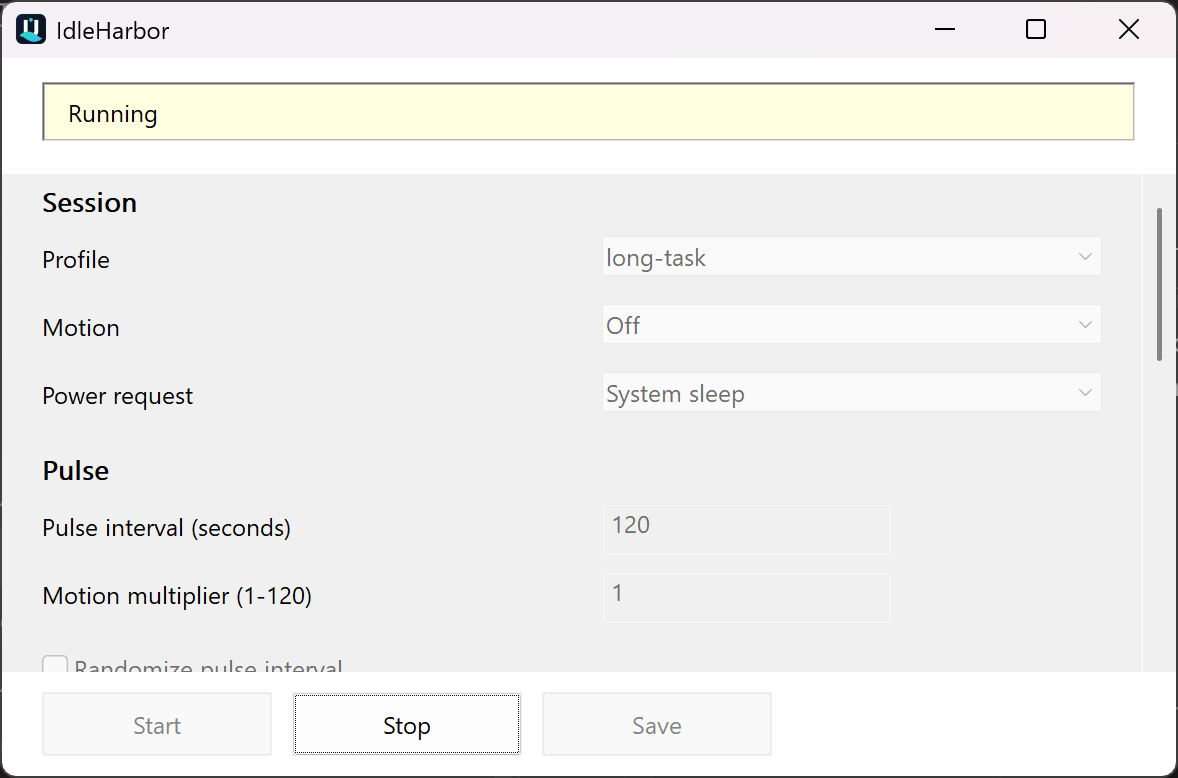
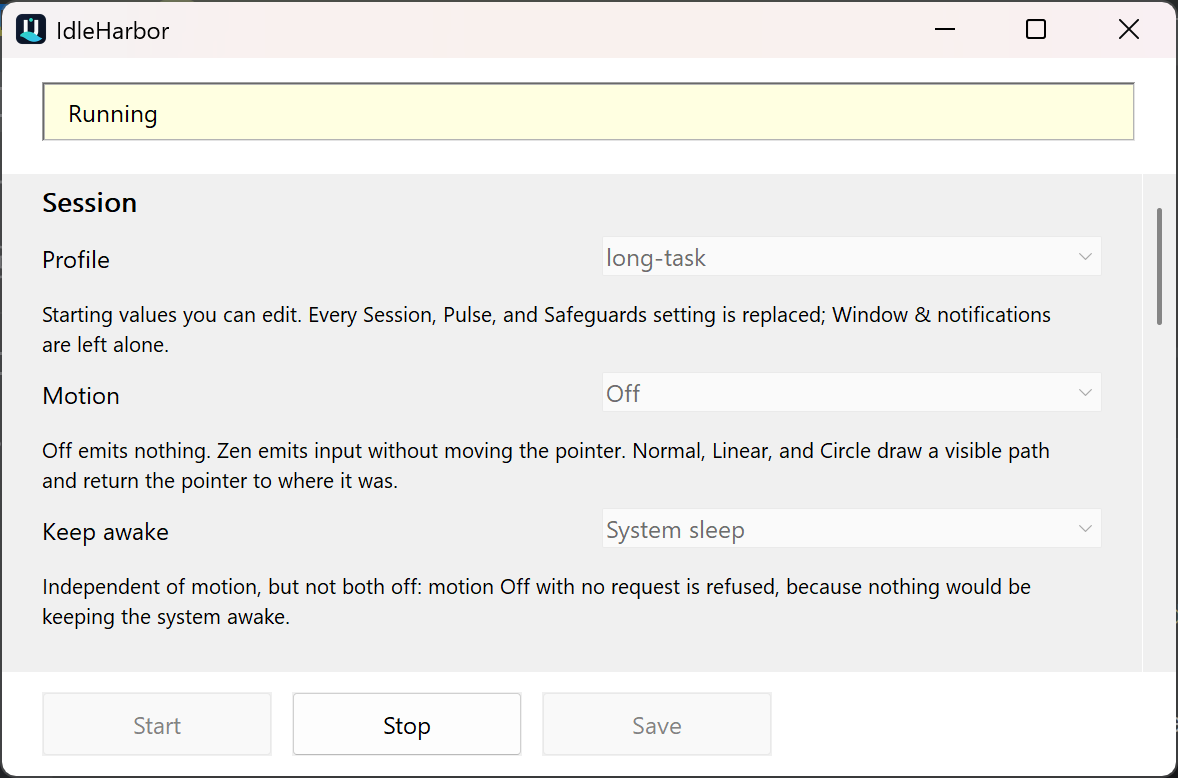
Recapture the documentation screenshots from the v0.2.0 release

diff --git a/PROJECT_STATE.md b/PROJECT_STATE.md
@@ -43,11 +43,13 @@ PR [#31](https://github.com/Chris0Jeky/IdleHarbor/pull/31) was closed as superse
 ## Installed release on the development PC
 
 The verified public x64 build is installed per-user at
-`%LOCALAPPDATA%\Programs\IdleHarbor\IdleHarbor.exe`. Its SHA-256 is
[1 lines of base64/hex data omitted]
-SBOM. Existing settings were preserved byte-for-byte. The explicit Task Scheduler action remains
-`--start --minimized`, the Start Menu launcher remains visible, and exactly one released process
-was restored after final screenshot QA. The executable is intentionally `NotSigned`.
+`%LOCALAPPDATA%\Programs\IdleHarbor\IdleHarbor.exe`. It was upgraded from `0.1.0` to `0.2.0` on
+2026-08-24 with the released `install.ps1` run as `-Startup TaskScheduler -StartMenu Create
+-NoLaunch`. Its SHA-256 is
[1 lines of base64/hex data omitted]
+and the x64 SPDX SBOM. `%LOCALAPPDATA%\IdleHarbor\settings.ini` is byte-for-byte unchanged across
+the upgrade, the explicit Task Scheduler action remains `--start --minimized`, and the Start Menu
+launcher remains visible. The executable is intentionally `NotSigned`.
 
 ## Repaint fix and final visual evidence
 
@@ -58,9 +60,10 @@ repaints the parent after layout convergence. The native smoke drives real wheel
 natural and explicit-reference repaint captures are pixel-identical.
 
 The stopped, running, safety-paused, scrolled, and tray-menu screenshots were recaptured from the
-installed public release at 192 DPI and visually inspected. `docs/assets/capture-manifest.json`
-records release source `d936f1e3d147b98403272e27ce1b3ec8f1cee3eb`, the released executable
-hash, exact PNG dimensions, and hashes. The original reported corruption is absent in every state.
+installed public `0.2.0` release at 192 DPI and visually inspected. `docs/assets/capture-manifest.json`
+records source revision `b69c7b56ba5cd89419f849b25312b0b4cb92a5d4`, the released executable's
+identity and `NotSigned` state, exact PNG dimensions, and per-image hashes. The original reported
+corruption is absent in every state.
 
 ## Settings-window work after `v0.1.0`
 
@@ -82,10 +85,10 @@ Two pre-existing intermittent failures in `tests\Test-NativeViewportRepaint.ps1`
 window that was findable from `WM_CREATE` but not yet initialized. The script now passed five
 consecutive runs at 192 DPI with an identical capture hash.
 
-`docs/assets` still records the `v0.1.0` release captures. Any settings-window change made after this
-point -- a layout change or a renamed label alike -- leaves those screenshots stale until the next
-release capture, which must be taken from a released executable. The captures currently show the
-former "Power request" and "Motion multiplier (1-120)" labels.
+`docs/assets` records the `v0.2.0` release captures, taken on 2026-08-24 from the installed public
+release at 192 DPI and visually inspected. Any settings-window change made after this point -- a
+layout change or a renamed label alike -- leaves those screenshots stale until the next release
+capture, which must be taken from a released executable.
 
 Follow-ups [#55](https://github.com/Chris0Jeky/IdleHarbor/issues/55) and
 [#56](https://github.com/Chris0Jeky/IdleHarbor/issues/56) were opened from PR #54's review and remain

diff --git a/README.md b/README.md
@@ -13,12 +13,13 @@
 
 <p align="center">
   <img src="docs/assets/idleharbor-window.png"
-       alt="IdleHarbor stopped settings window with its status card and fixed Start, Stop, and Save actions at 200 percent Windows display scaling"
+       alt="IdleHarbor stopped settings window showing the profile, motion, and keep-awake fields with a printed explanation under each, its status card, and fixed Start, Stop, and Save actions at 200 percent Windows display scaling"
        width="594">
 </p>
 
-This is a real capture of the public `v0.1.0` x64 release at 200% Windows display scaling, not a
-mock-up.
+This is a real capture of the public `v0.2.0` x64 release at 200% Windows display scaling, not a
+mock-up. Each field carries its own printed explanation, and every control describes itself in more
+detail on hover.
 
 | Running | Intelligently paused |
 | --- | --- |
